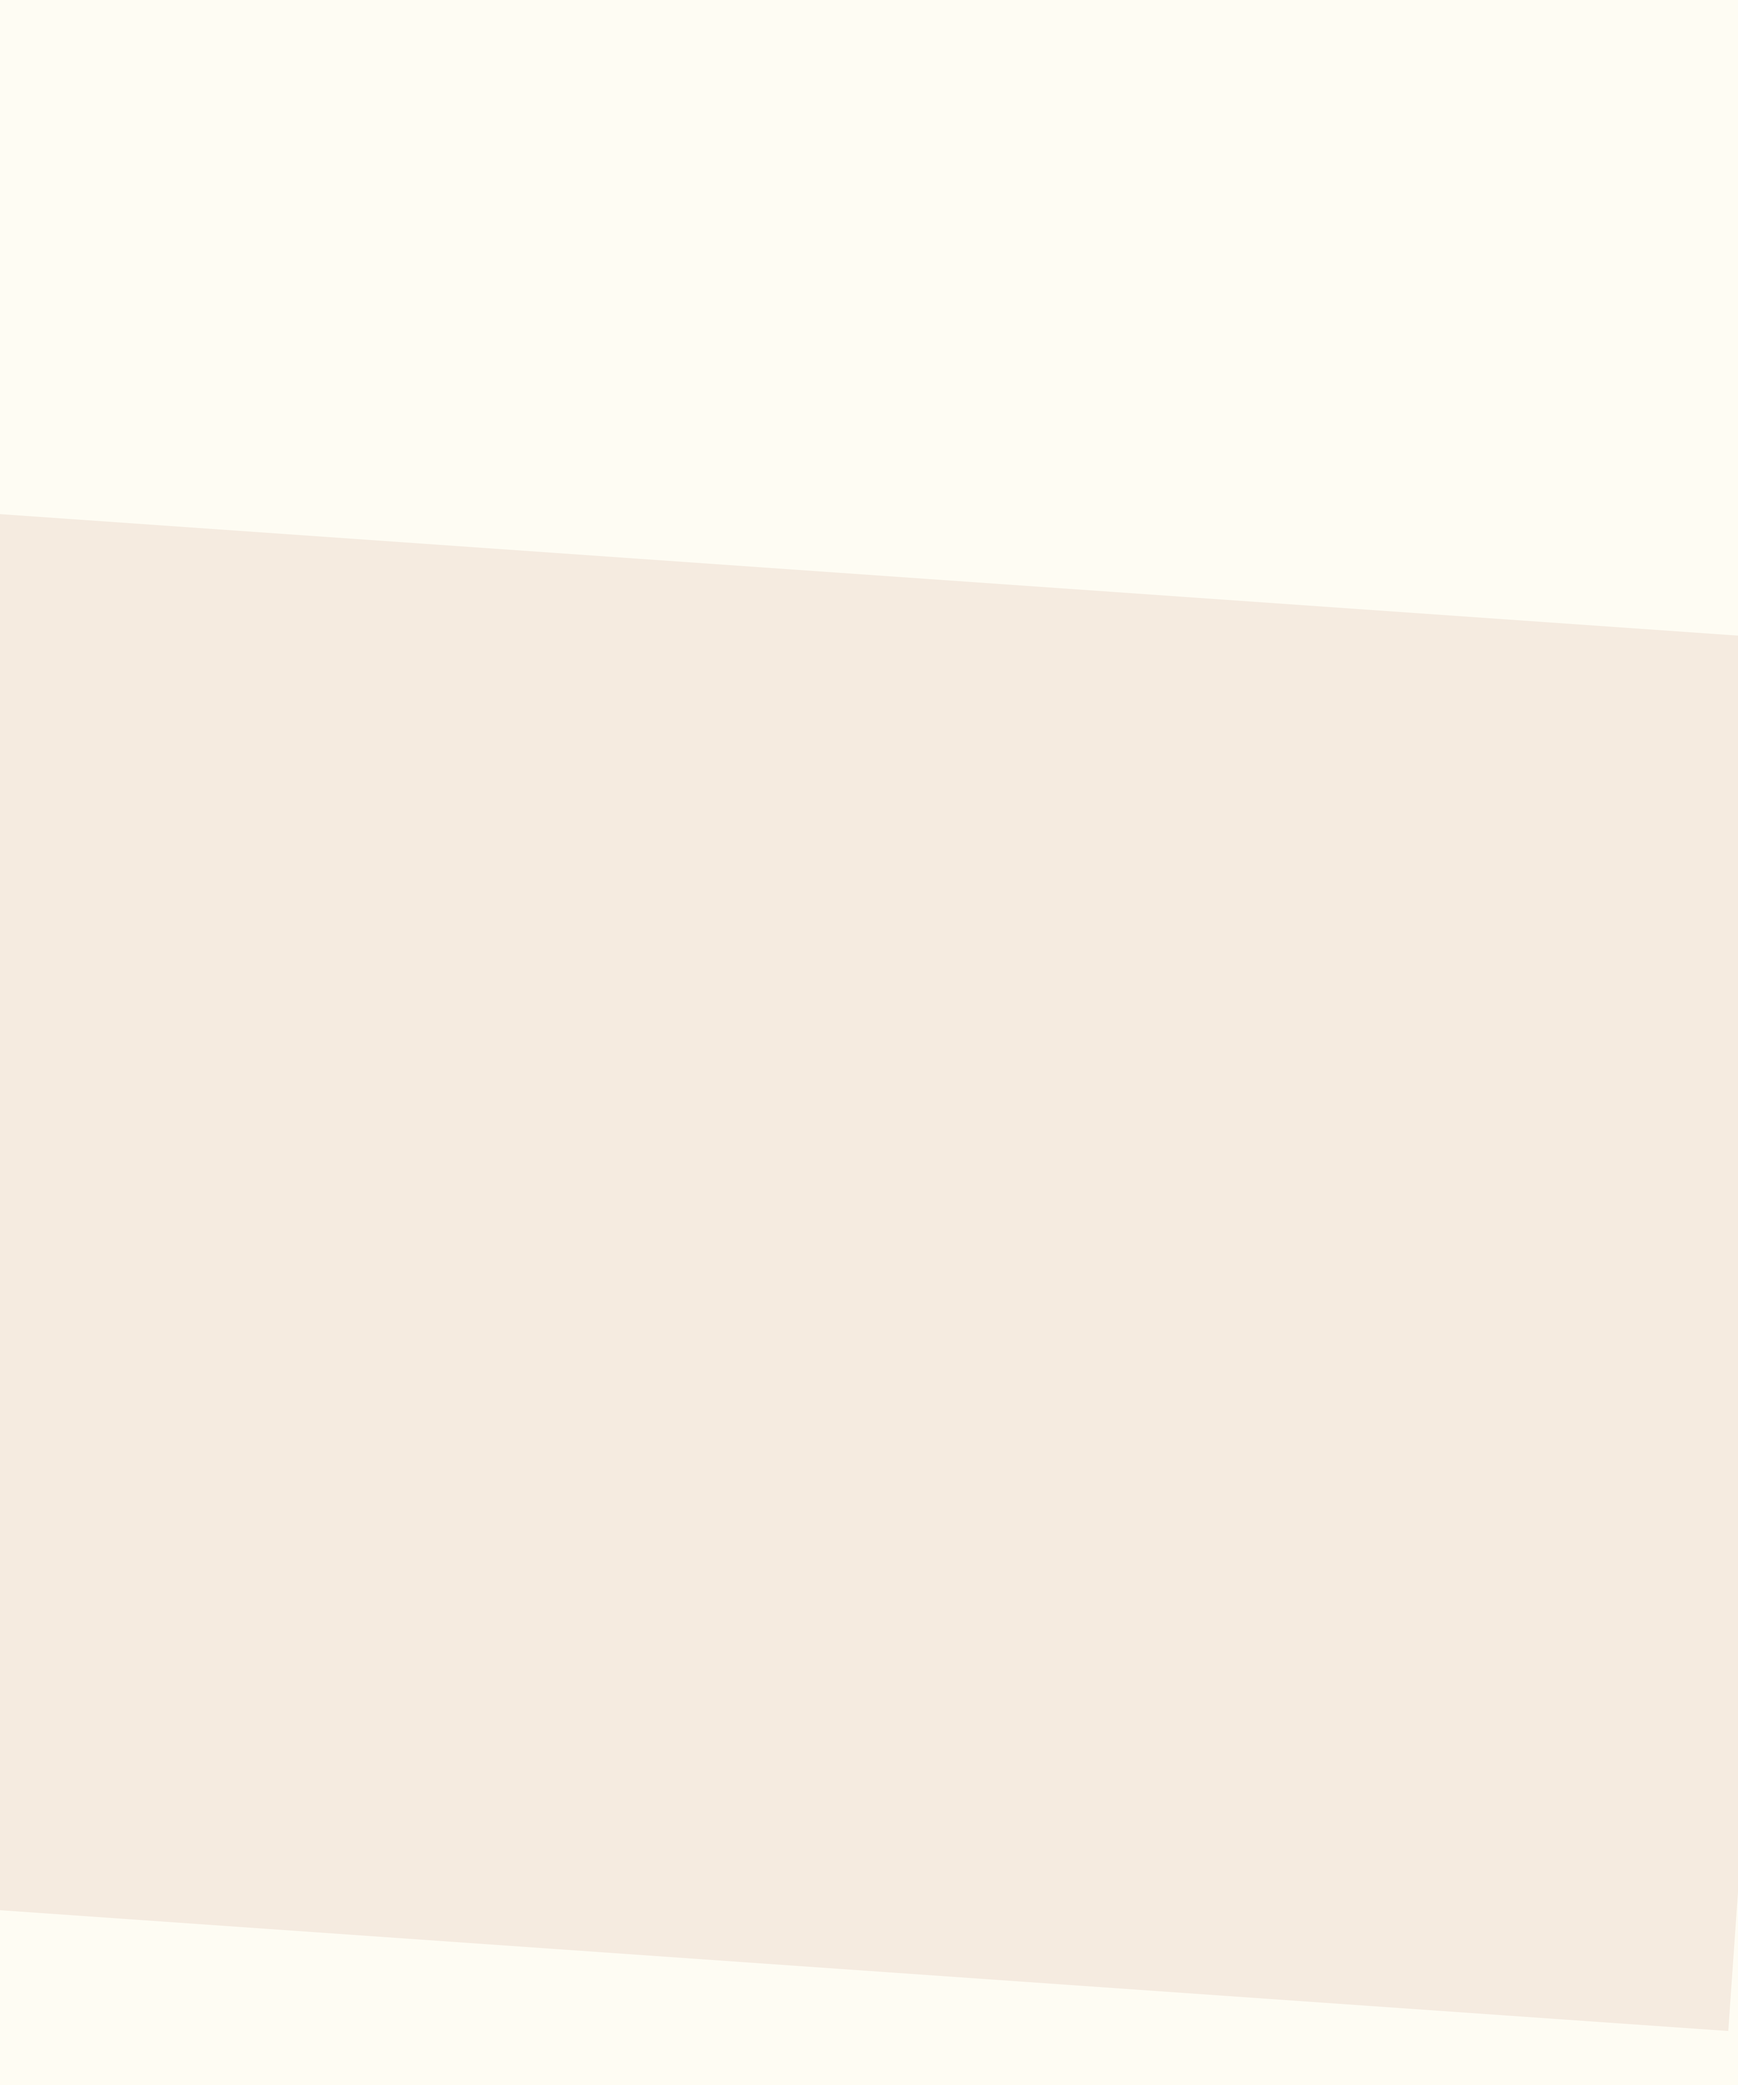
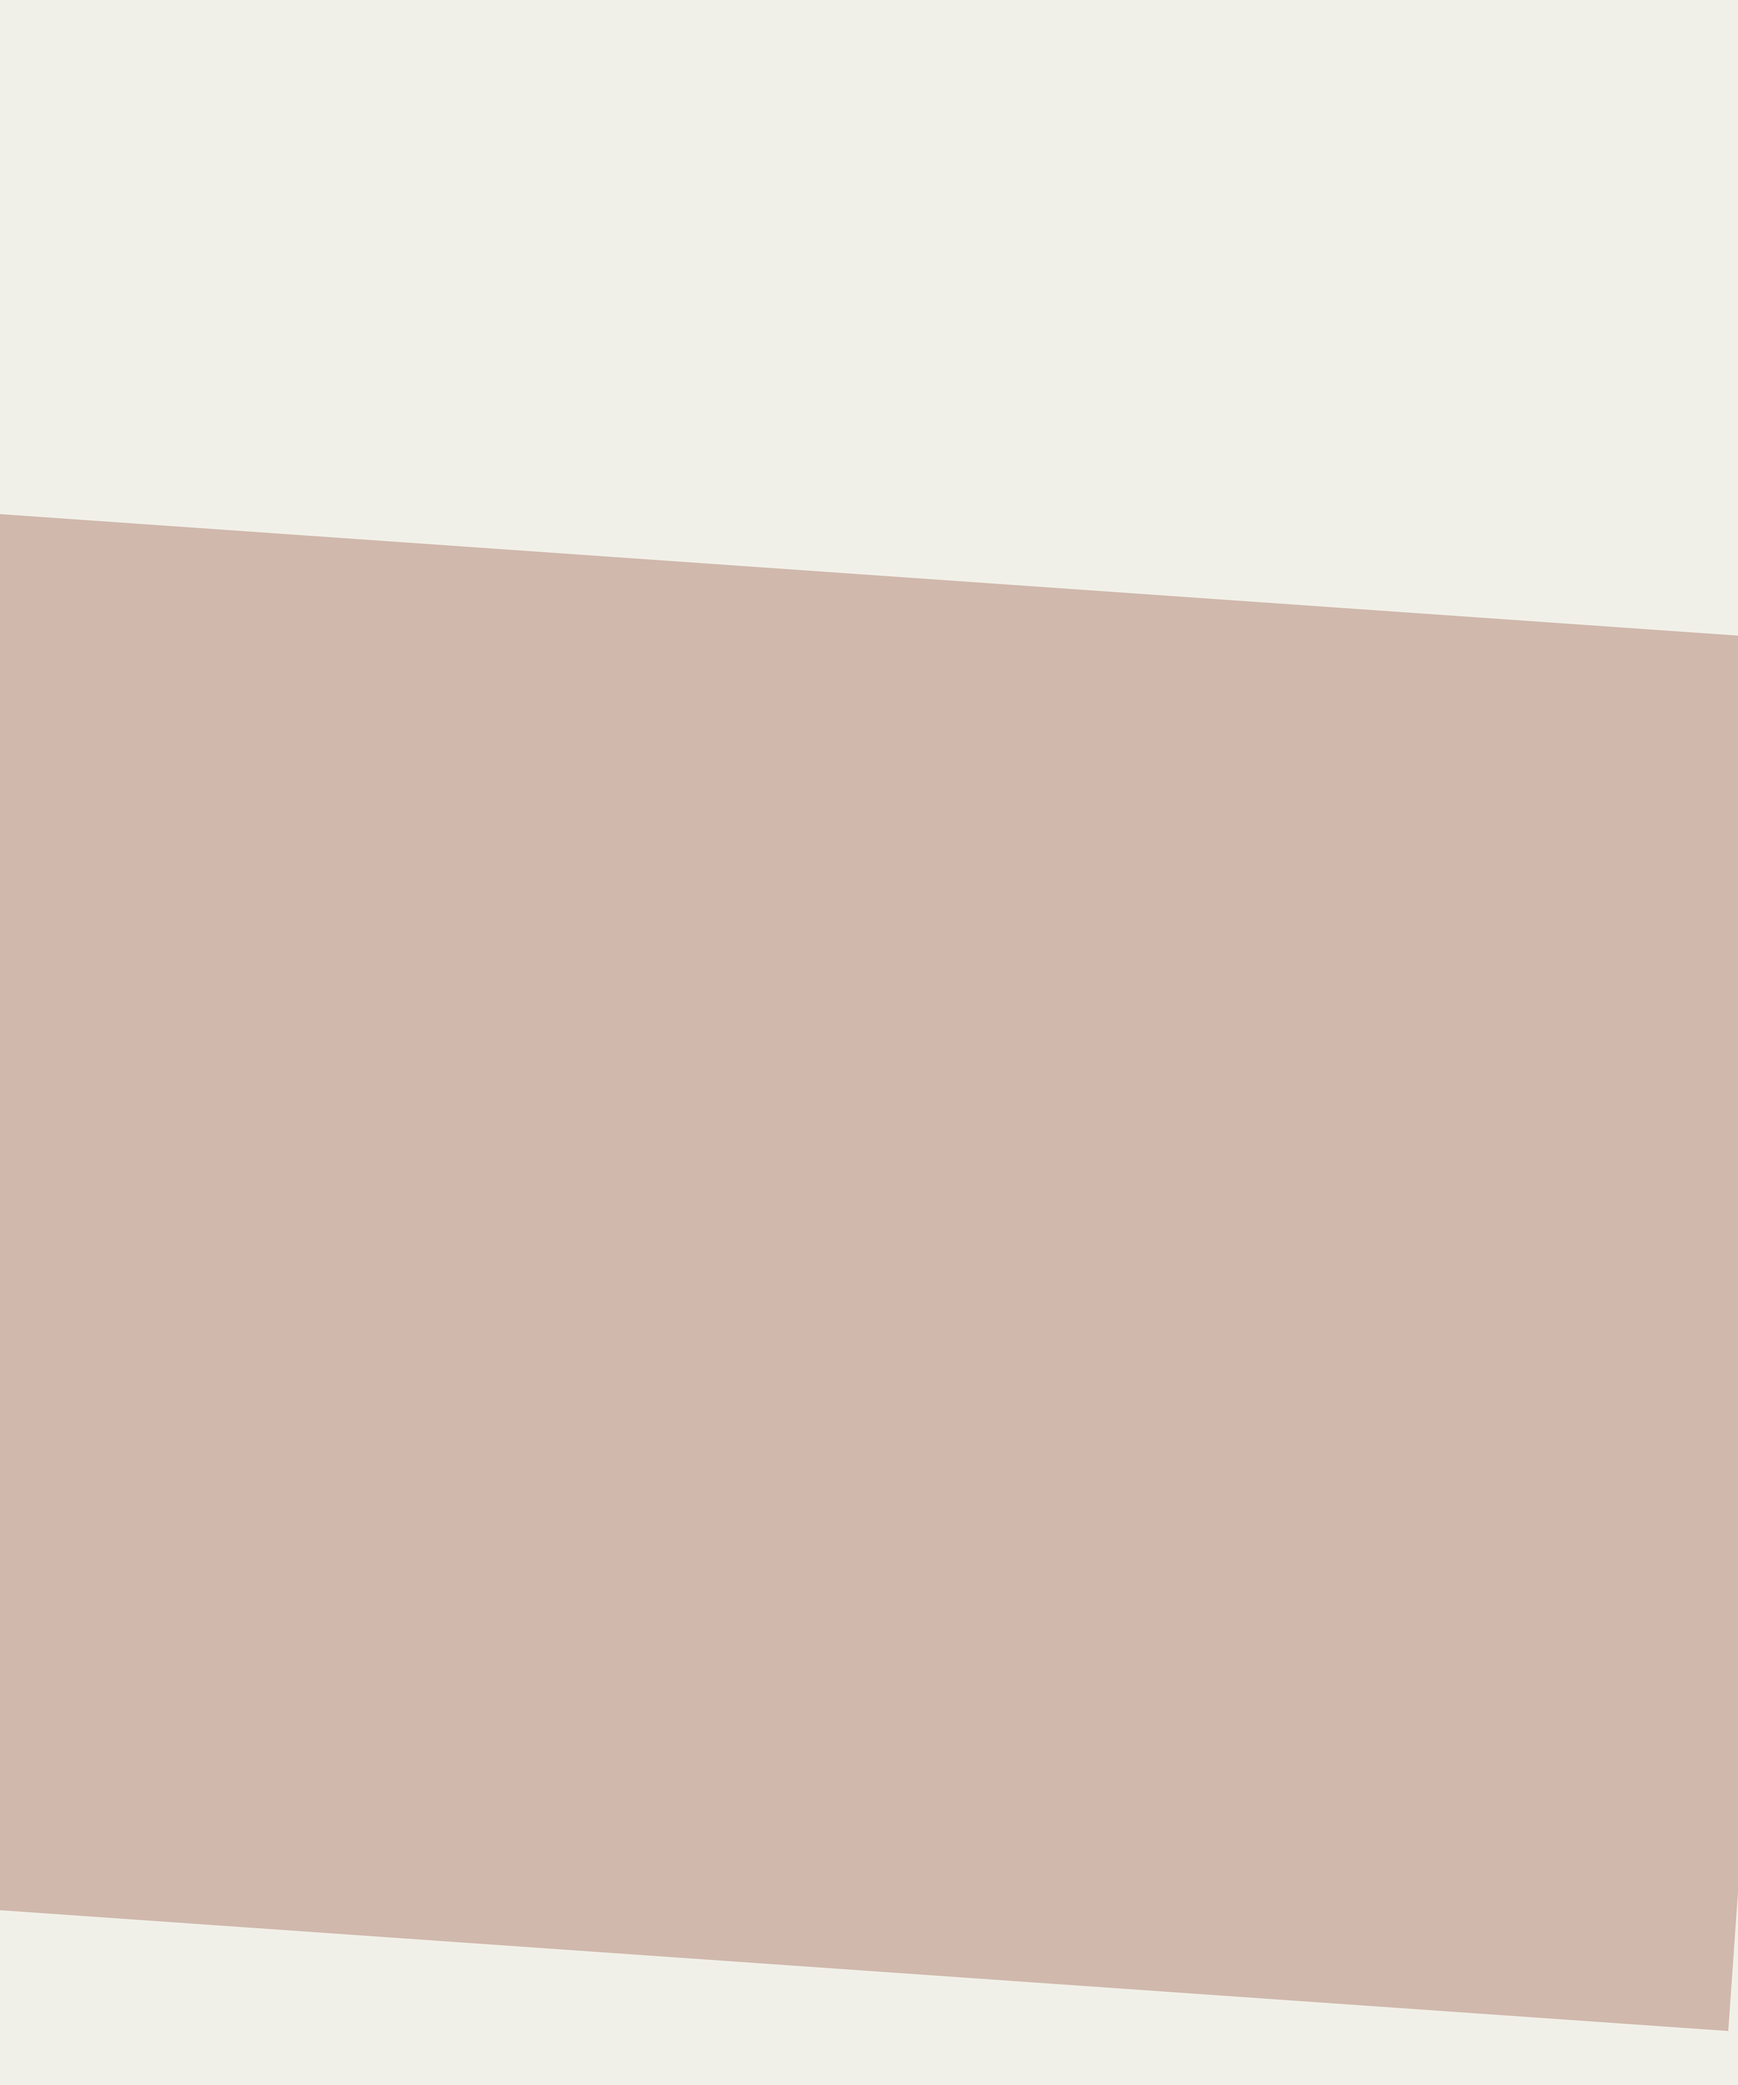
Theme Update

diff --git a/src/App.css b/src/App.css
@@ -1,3 +1,10 @@
+
+:root {
+  --bg-color: 241, 240, 232;
+  --card-color: 208, 184, 172;
+  --accent-color: 150, 126, 118;
+  --text-color: 75, 59, 59;
+}
 .section {
   min-height: 100vh;
   width: 100vw;
@@ -6,14 +13,10 @@
   justify-content: center;
   align-items: center;
   align-content: center;
-  background-image: url(./my\ components/Images/MainScreenTest.png);
+  background-image: url(./my\ components/Images/MainScreen.png);
+  background-color: rgba(var(--bg-color),0.3);
+  background-blend-mode: lighten;
   background-size: 100% 100%;
-}
-:root {
-  --bg-color: 241, 240, 232;
-  --card-color: 208, 184, 172;
-  --accent-color: 150, 126, 118;
-  --text-color: 75, 59, 59;
 }
 .LINK{
   all: unset;
@@ -43,16 +46,9 @@
   z-index:100;
   margin: 0 10rem;
   padding: .5rem;
-}
-.LogoCover{
-  position: absolute;
-  display: flex;
-  align-items: center;
-  width: 13rem;
-  height: .3rem;
-  z-index: 10;
-  margin: 5.65rem 10rem;
-  background-color:rgba(var(--bg-color));
+
+  background-color: rgba(var(--bg-color));
+  border-radius: 4.5rem;
 }
 .NavBarItem{
   all: unset;
@@ -66,11 +62,14 @@
 }
 .NavBarItem.active{
   -webkit-text-stroke: 0.02rem rgba(var(--text-color));
-  color: rgba(var(--accent-color));
+  color: rgba(var(--bg-color));
+  background-color: rgba(var(--text-color));
+  padding: 0 1rem;
+  border-radius: 2rem;
 }
 .mobile-icon {
   font-size: 5rem;
-  color: rgba(var(--accent-color));
+  color: rgba(var(--text-color));
   border: none;
   background: none;
   cursor: pointer;
@@ -127,6 +126,7 @@
   height: 20rem;
   margin: 5rem;
   display: block;
+
 }
 .HomeLogoContainer{
   padding-bottom: 5rem;
@@ -165,17 +165,18 @@
   align-items: center;
   justify-content: center;
   border-radius: 10rem;
-  background-color: rgba(var(--accent-color));
+  border: rgba(var(--accent-color)) .25rem solid;
+  background-color: rgba(var(--text-color));
 }
 .socials img{
   aspect-ratio: 1;
-  height: 3rem;
+  height: 2.7rem;
 }
 
 /* <-------------------------------- ABOUT --------------------------------> */
 
 .About{
-  background-image: url(./my\ components/Images/AboutScreenTest.png);
+  background-image: url(./my\ components/Images/AboutScreen.png);
   background-size: 100% 100%;
 }
 
@@ -225,12 +226,11 @@
 }
 .carousel-caption h3{
   font-family: "Playfair Display", serif;
-  color: rgba(var(--text-color));
   font-size: 3rem;
   font-weight: bold;
-  background-color:rgba(var(--card-color));
-  -webkit-text-stroke: .05rem rgba(var(--text-color));
-  border: .1rem solid rgba(var(--text-color));
+  background-color:rgba(var(--text-color));
+  color: rgba(var(--bg-color));
+  border: .1rem solid rgba(var(--accent-color));
   border-radius: 5rem;
   filter: drop-shadow(.1rem .1rem .1rem rgba(var(--text-color)));
 }
@@ -285,7 +285,7 @@
 .ServiceCard{
   aspect-ratio: 1;
   height: 30rem;
-  background-color: rgba(var(--bg-color), 0.9);
+  background-color: rgba(var(--bg-color));
   border: .1rem solid rgba(var(--text-color));
   border-radius: 10%;
   display: flex;
@@ -299,8 +299,10 @@
   display: block;
   font-family: "Jaldi", sans-serif;
   font-size: 5rem;
-  color: rgba(var(--accent-color));
-  -webkit-text-stroke: .02rem rgba(var(--text-color));
+  font-weight:bold;
+  color: rgba(var(--text-color));
+  /* -webkit-text-stroke: .2rem rgba(var(--text-color)) ;
+  letter-spacing: .15rem; */
 }
 .CardPrice{
   display: block;
@@ -317,15 +319,17 @@
 }
 .CardButton{
   margin: 2rem;
+  font-family: "Jaldi", sans-serif;
+  font-weight: bold;
   display: block;
-  height: 4rem;
-  aspect-ratio: 5;
-  background-color: rgba(var(--card-color));
-  border: .12rem solid rgba(var(--text-color));
+  height: 4.5rem;
+  aspect-ratio: 4;
+  background-color: rgba(var(--accent-color));
+  -webkit-text-stroke: .05rem rgba(var(--text-color));
+  color: rgba(var(--bg-color));
+  border: .25rem solid rgba(var(--text-color));
   border-radius: 2rem;
-  font-size: 1.8rem;
-  font-weight: 600;
-  filter: drop-shadow(.3rem .3rem .25rem rgba(0, 0, 0, 0.5));
+  font-size: 2.4rem;
 }
 .ServiceRuppe{
   font-size: 60%;
@@ -368,7 +372,7 @@ textarea,select {
   border-radius: 0 1rem 1rem 1rem;
   filter: drop-shadow(.2rem .2rem .1rem rgba(0, 0, 0, 0.5));
   padding: 0 0.5rem;
-  background: #F5EBE0;
+  background: rgba(var(--card-color));
   font-size: 1.4rem !important;
   height: 3rem;
   resize: none;
@@ -385,16 +389,17 @@ textarea {
 }
 .BookingButton {
   margin: 1rem;
+  font-family: "Jaldi", sans-serif;
+  font-weight: bold;
   display: block;
-  height: 4rem;
-  aspect-ratio:6;
-  background-color: #FFD6BA;
-  border: .12rem solid rgba(var(--text-color));
+  height: 4.5rem;
+  aspect-ratio: 6;
+  background-color: rgba(var(--accent-color));
+  -webkit-text-stroke: .05rem rgba(var(--text-color));
+  color: rgba(var(--bg-color));
+  border: .25rem solid rgba(var(--text-color));
   border-radius: 2rem;
-  font-size: 2rem;
-  font-weight: 600;
-  filter: drop-shadow(.3rem .3rem .25rem rgba(0, 0, 0, 0.5));
-  font-family: "Crimson Text", serif;
+  font-size: 3rem;
 }
 
 @media only screen and (max-width:1600px){
@@ -572,7 +577,8 @@ textarea {
     font-size: 3.5rem;
   }
   .MainBookingContainer{
-    height: 80rem;
+    margin-bottom: 10rem;
+    height: 65rem;
     width: 80vw;
     display: flex;
     align-items: center;
@@ -585,7 +591,7 @@ textarea {
     font-size: 2rem;
   }
   input,textarea,select {
-    height: 6rem;
+    height: 4rem;
     width: 70vw;
   }
   textarea{
@@ -648,6 +654,19 @@ textarea {
   .carousel-caption h3{
     font-size: 4.5rem;
   }
+  .MainBookingContainer{
+    height: 55rem;
+    width: 90vw;
+  }
+  input,textarea,select {
+    height: 3rem;
+  }
+  textarea {
+    height: 8rem;
+  }
+  .BookingButton{
+    height: 5rem;
+  }
 }
 @media only screen and (max-width:550px){
   .HomeServiceContainer{
@@ -671,10 +690,30 @@ textarea {
   .HomeLine{
     height: .1rem;
   }
+  .MainBookingContainer{
+    height: 65rem;
+    width: 90vw;
+  }
+  input,textarea,select {
+    height: 5rem;
+  }
+  textarea{
+    height: 10rem;
+  }
 }
 @media only screen and (max-width:400px){
   :root{
     font-size: 40%;
+  }
+  .MainBookingContainer{
+    height: 80rem;
+    width: 90vw;
+  }
+  input,textarea,select {
+    height: 6rem;
+  }
+  textarea{
+    height: 18rem;
   }
 }
 @media only screen and (max-width:350px){
@@ -684,10 +723,21 @@ textarea {
   .carousel-caption h3{
     font-size: 3.5rem;
   }
+  
 }
 @media only screen and (max-width:320px){
   :root{
     font-size: 30%;
+  }
+  .MainBookingContainer{
+    height: 100rem;
+    width: 90vw;
+  }
+  input,textarea,select {
+    height: 6rem;
+  }
+  textarea{
+    height: 30rem;
   }
 }
 @media only screen and (max-width:200px){

diff --git a/src/my components/Home.js b/src/my components/Home.js
@@ -23,7 +23,7 @@ export default function Home() {
                     </div>
                 </Link>
                 <div className='HomeLogoContainer'>
-                    <img className='HomeLogo' src={require('./Images/logoTest.png')} alt='LOGO'/>
+                    <img className='HomeLogo' src={require('./Images/logo.png')} alt='LOGO'/>
                     <div className='TakeMeContainer'>
                         <div className='HomeLine'></div>
                         <span className='HomeTakeText'>TAKE ME TO</span>

diff --git a/src/my components/Header.js b/src/my components/Header.js
@@ -30,8 +30,7 @@ const Header = () =>  {
   return (
     <>
       <nav className="NavBar">
-      <img className="NavLogo" src={require("./Images/logoTest.png")} alt="LOGO"/>
-      <div className="LogoCover" />
+      <img className="NavLogo" src={require("./Images/logo.png")} alt="LOGO"/>
       <button className="mobile-icon" onClick={toggleNavbar}>☰</button>
       <div className={`NavContainer ${menuOpen ? "active" : ""}`}>
         {location === "" ? (
